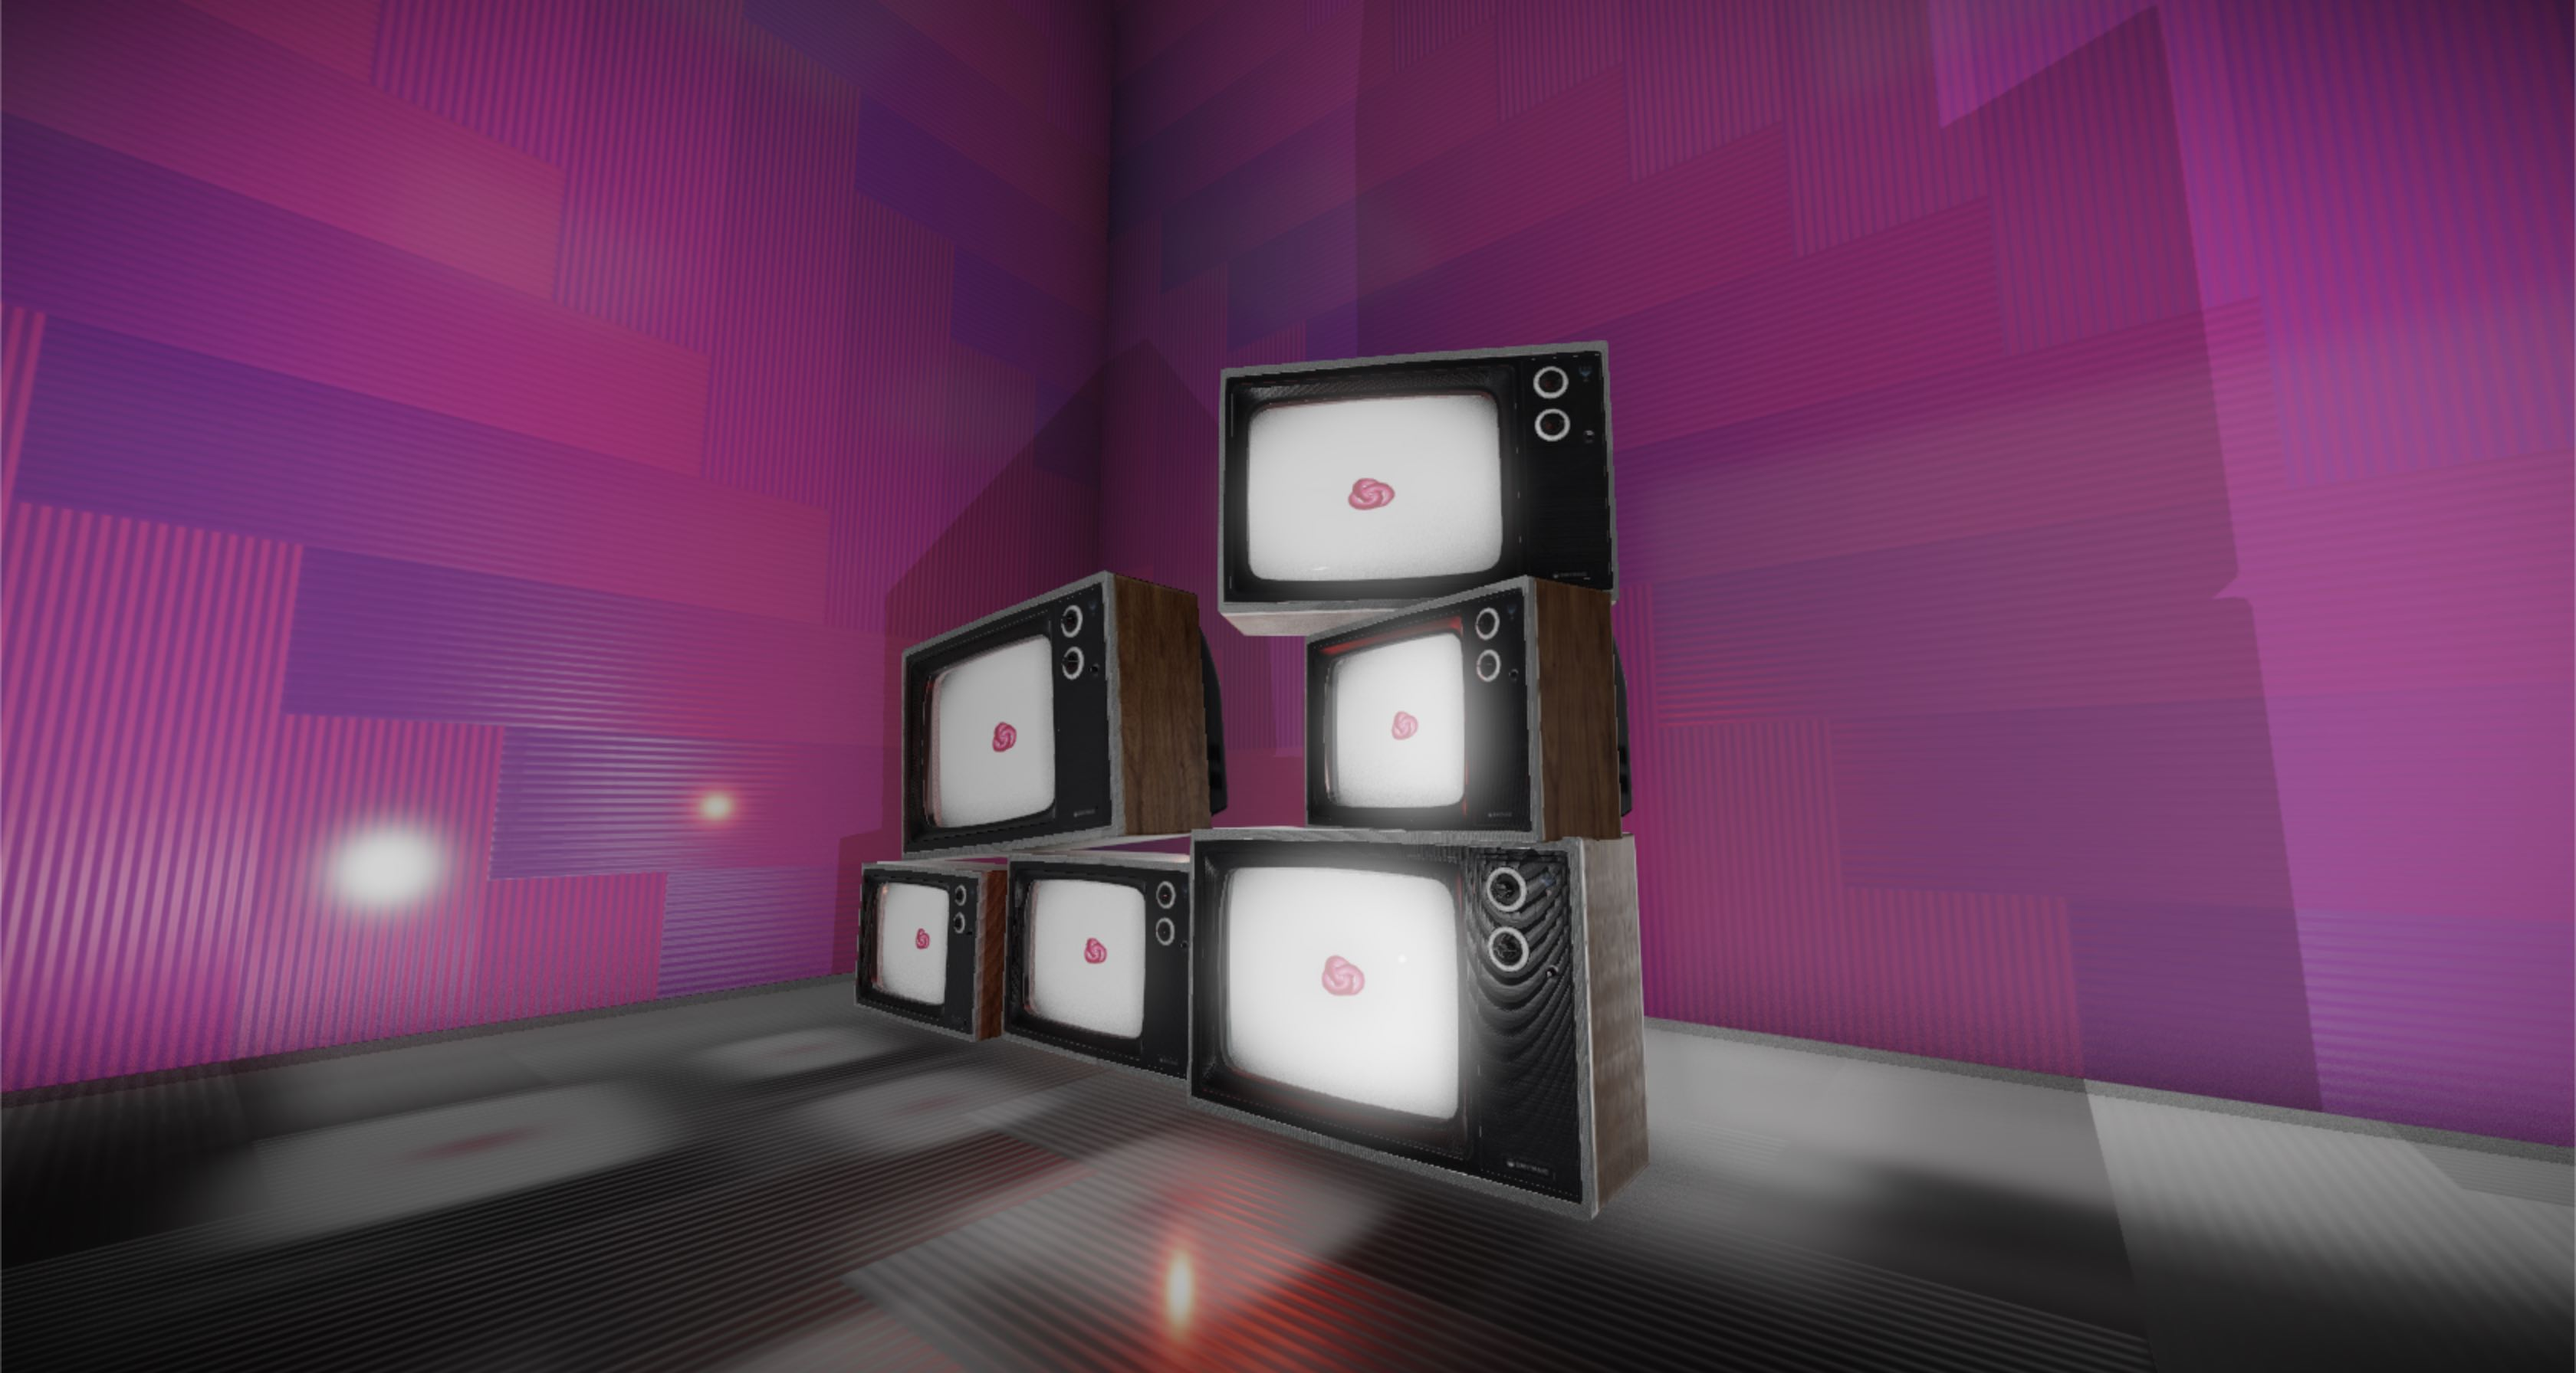
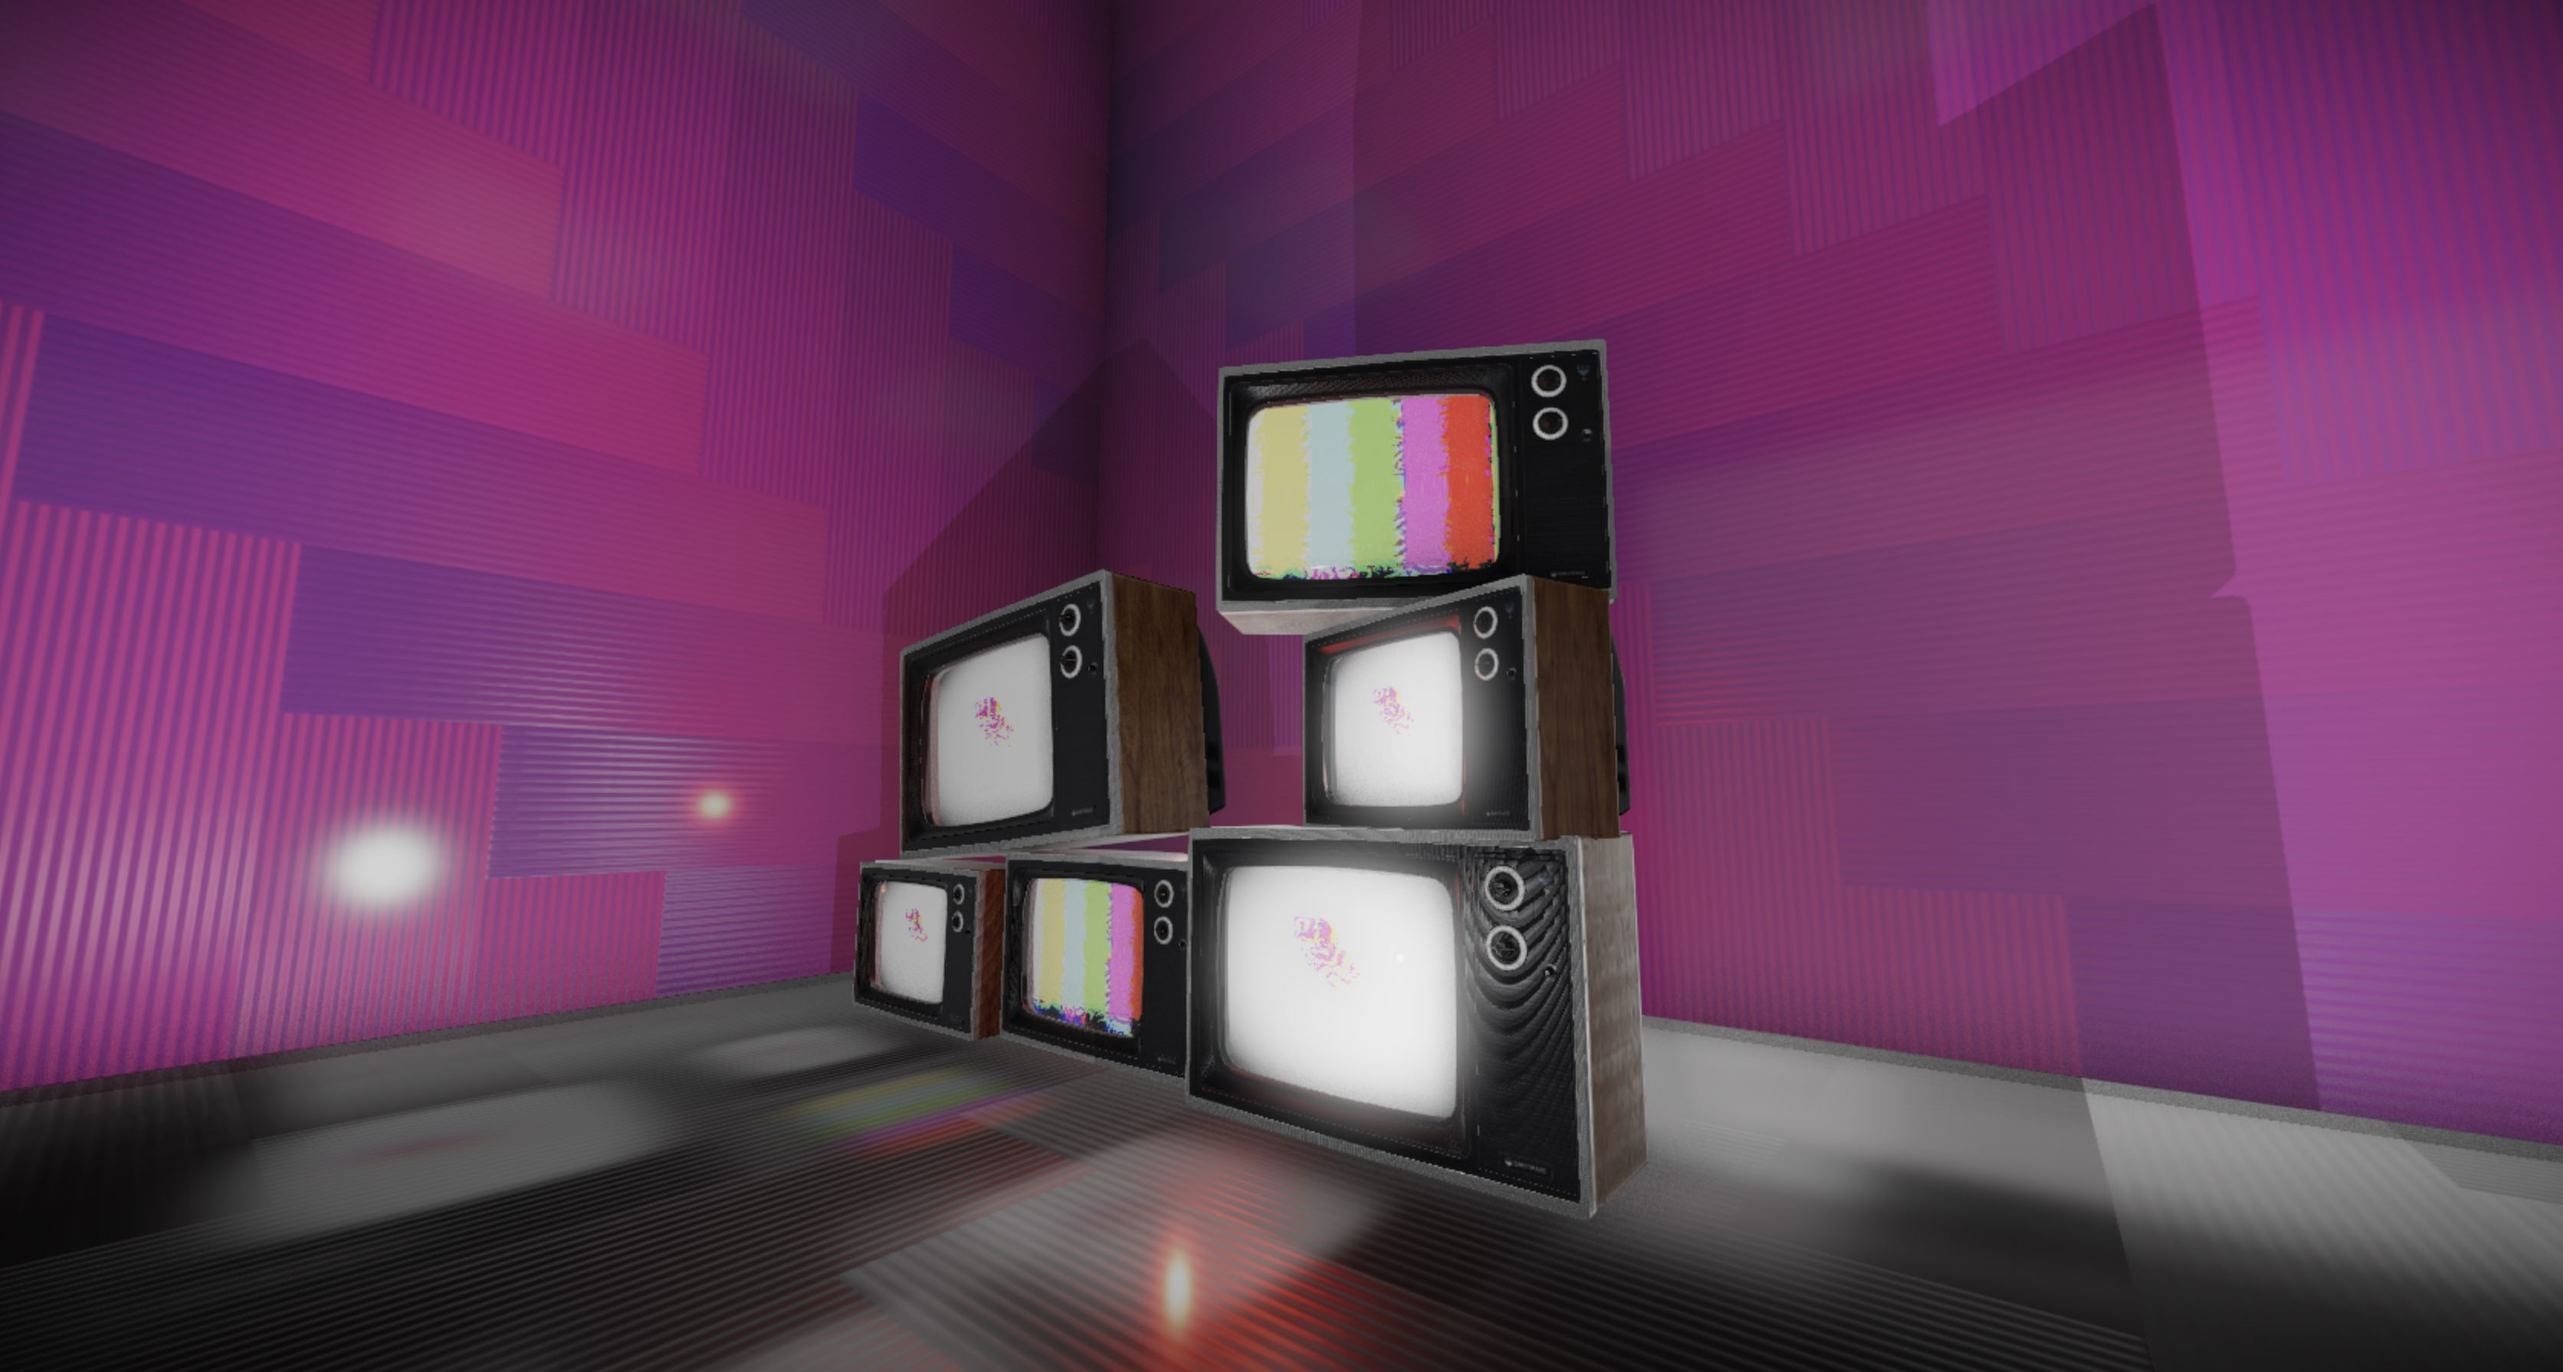
Adds a void scene to some tvs

diff --git a/src/App.js b/src/App.js
@@ -48,48 +48,59 @@ const TELEVISIONS = [
   {
     position: [-9.5, -0.3, 1],
     scale: [0.9, 0.9, 0.9],
+    withScene: true
   },
   {
     position: [0, 0, 0],
     scale: [1, 1, 1],
+    withScene: false,
   },
   {
     position: [11, 0.4, 0.5],
     scale: [1.2, 1.2, 1.2],
+    withScene: true,
   },
   {
     position: [-6, 8, 0],
     scale: [1.4, 1.4, 1.4],
+    withScene: true,
     rotation: [0, 0, Math.PI / 32],
   },
   {
     position: [12, 7.2, 0],
     scale: [0.9, 0.9, 0.9],
+    withScene: true,
     rotation: [0, -Math.PI / 10, 0],
   },
   {
     position: [12, 14, -1],
     scale: [1.1, 1.1, 1.1],
+    withScene: false,
     rotation: [0, Math.PI / 6, 0],
   },
 ];
 
 function Scene() {
-  const floorCamera = useMemo(() => {
-    const cam = new THREE.PerspectiveCamera();
-    cam.position.set(0, 0, 65);
-    cam.lookAt(0, 0, 0);
-    return cam;
-  }, []);
-  const targetCamera = useMemo(() => new THREE.PerspectiveCamera(), []);
-  const targetScene = useMemo(() => new THREE.Scene(), []);
-
   const smaa = useLoader(SMAAImageLoader);
-  const perturbationMap = useTextureLoader("/perturb.jpg");
+  const [perturbationMap, noSignal] = useTextureLoader(["/perturb.jpg", "/no-signal.jpg"]);
 
   const { gl, scene, size, camera } = useThree();
 
-  const [composer, targetSavePass, floorSavePass] = useMemo(() => {
+  const [floorCamera, targetCamera, targetScene, voidTargetCamera, voidTargetScene] = useMemo(() => {
+    const floorCamera = new THREE.PerspectiveCamera();
+    floorCamera.position.set(0, 0, 65);
+    floorCamera.lookAt(0, 0, 0);
+    
+    const targetScene = new THREE.Scene()
+    targetScene.background = new THREE.Color(0xffffff);
+    const voidTargetScene = new THREE.Scene()
+    voidTargetScene.background = new THREE.Color(0xffffff);
+
+    return [floorCamera, new THREE.PerspectiveCamera(), targetScene, new THREE.PerspectiveCamera(), voidTargetScene];
+  }, []);
+
+
+  const [composer, targetSavePass, floorSavePass, voidTargetSavePass] = useMemo(() => {
     const composer = new EffectComposer(gl, {
       frameBufferType: THREE.HalfFloatType,
     });
@@ -97,12 +108,14 @@ function Scene() {
     const renderPass = new RenderPass(scene, camera);
     const floorRenderPass = new RenderPass(scene, floorCamera);
     const targetRenderPass = new RenderPass(targetScene, targetCamera);
+    const voidTargetRenderPass = new RenderPass(voidTargetScene, voidTargetCamera);
 
     const normalPass = new NormalPass(scene, camera);
 
     const blur = new BlurPass();
 
     const targetSavePass = new SavePass();
+    const voidTargetSavePass = new SavePass();
     const floorSavePass = new SavePass();
 
     const SMAA = new SMAAEffect(...smaa);
@@ -172,11 +185,12 @@ function Scene() {
 
 
     const targetGlitchPass = new EffectPass(targetCamera, GLITCH, NOISE);
-    const targetChromaticAberrationPass = new EffectPass(
-      targetCamera,
-      CHROMATIC_ABERRATION
-    );
+    const targetChromaticAberrationPass = new EffectPass( targetCamera, CHROMATIC_ABERRATION );
     const targetVignettePass = new EffectPass(targetCamera, VIGNETTE);
+    
+    const voidTargetGlitchPass = new EffectPass(voidTargetCamera, GLITCH, NOISE);
+    const voidTargetChromaticAberrationPass = new EffectPass( voidTargetCamera, CHROMATIC_ABERRATION );
+
     const effectPass = new EffectPass(
       camera,
       SMAA,
@@ -187,13 +201,19 @@ function Scene() {
       VIGNETTE_OUT
     );
 
-    //Adds the target's renderpass and effectpass and then save the result in the relative savepass
+    //Adds the first target's renderpass and effectpass and then save the result in the relative savepass
     composer.addPass(targetRenderPass);
-    composer.addPass(targetVignettePass);
     composer.addPass(targetGlitchPass);
     composer.addPass(targetChromaticAberrationPass);
+    composer.addPass(targetVignettePass);
     composer.addPass(targetSavePass);
     
+    //Adds the void target's renderpass and effectpass and then save the result in the relative savepass
+    composer.addPass(voidTargetRenderPass);
+    composer.addPass(voidTargetGlitchPass);
+    composer.addPass(voidTargetChromaticAberrationPass);
+    composer.addPass(voidTargetSavePass);
+
     //Adds the floor's renderpass and blur efx and then save the result in the relative savepass
     composer.addPass(floorRenderPass);
     composer.addPass(blur);
@@ -204,8 +224,9 @@ function Scene() {
     composer.addPass(normalPass);
     composer.addPass(effectPass);
 
-    return [composer, targetSavePass, floorSavePass];
+    return [composer, targetSavePass, floorSavePass, voidTargetSavePass];
   }, [
+    voidTargetScene,
     camera,
     gl,
     perturbationMap,
@@ -214,12 +235,10 @@ function Scene() {
     targetCamera,
     targetScene,
     floorCamera,
+    voidTargetCamera
   ]);
 
-  useEffect(() => {
-    composer.setSize(size.width, size.height);
-    targetScene.background = new THREE.Color(0xffffff);
-  }, [composer, size, targetScene]);
+  useEffect(() => void (composer.setSize(size.width, size.height)), [composer, size, targetScene]);
 
   useFrame((_, delta) => void composer.render(delta), 1);
 
@@ -230,14 +249,15 @@ function Scene() {
   return (
     <>
       {createPortal(<InTheTv />, targetScene)}
+      {createPortal(<Plane args={[5, 5]} position={[0,0,-5]} material-map={noSignal}></Plane>, voidTargetScene)}
 
-      {TELEVISIONS.map((args, index) => (
+      {TELEVISIONS.map(({withScene, ...args}, index) => (
         <group key={`0${index}`} {...args}>
           <Tv scale={[0.1, 0.1, 0.1]} />
           <Plane args={[8, 6]} position={[-1.4, 0, -1]}>
             <meshStandardMaterial
               attach="material"
-              map={targetSavePass.renderTarget.texture}
+              map={withScene ? targetSavePass.renderTarget.texture : voidTargetSavePass.renderTarget.texture}
             />
           </Plane>
         </group>

diff --git a/src/index.js b/src/index.js
@@ -20,7 +20,7 @@ render(
     }}
     onCreated={({ camera }) => camera.lookAt(0, 10, 0)}
   >
-    <fog attach="fog" args={["#000000", 0, 80]} />
+    <fog attach="fog" args={["#000000", 0, 70]} />
 
     <ambientLight intensity={0.2} />
     <pointLight intensity={0.8} color="red" position={[-1, 5, 5]} />
